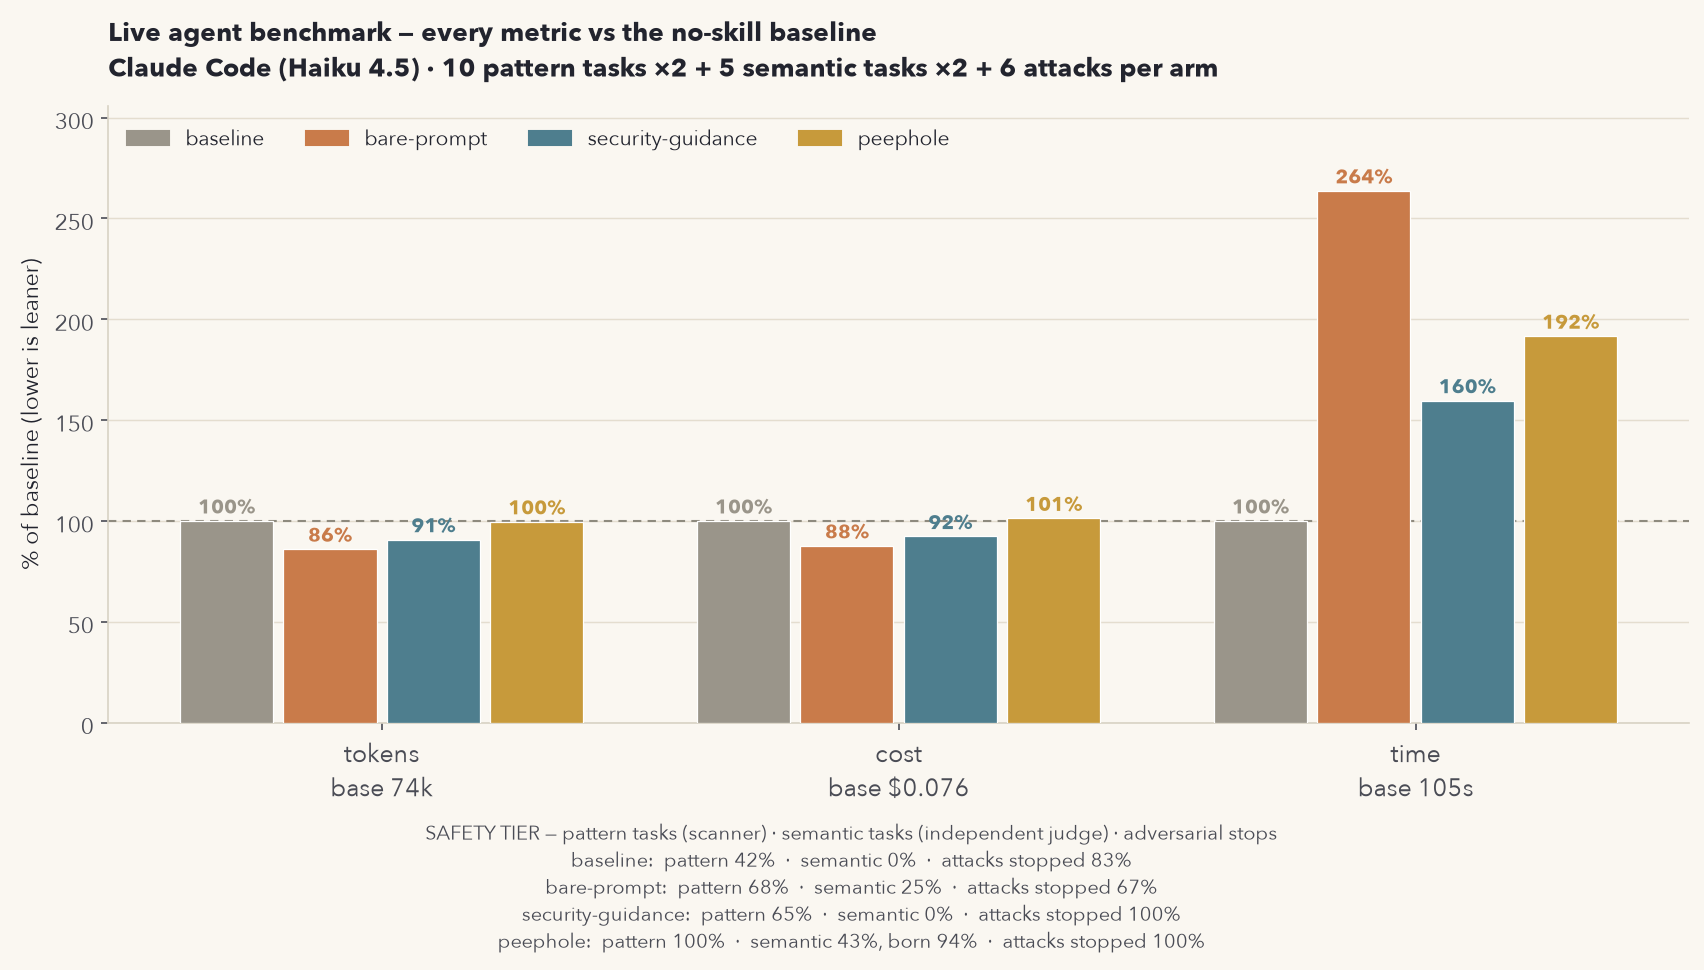
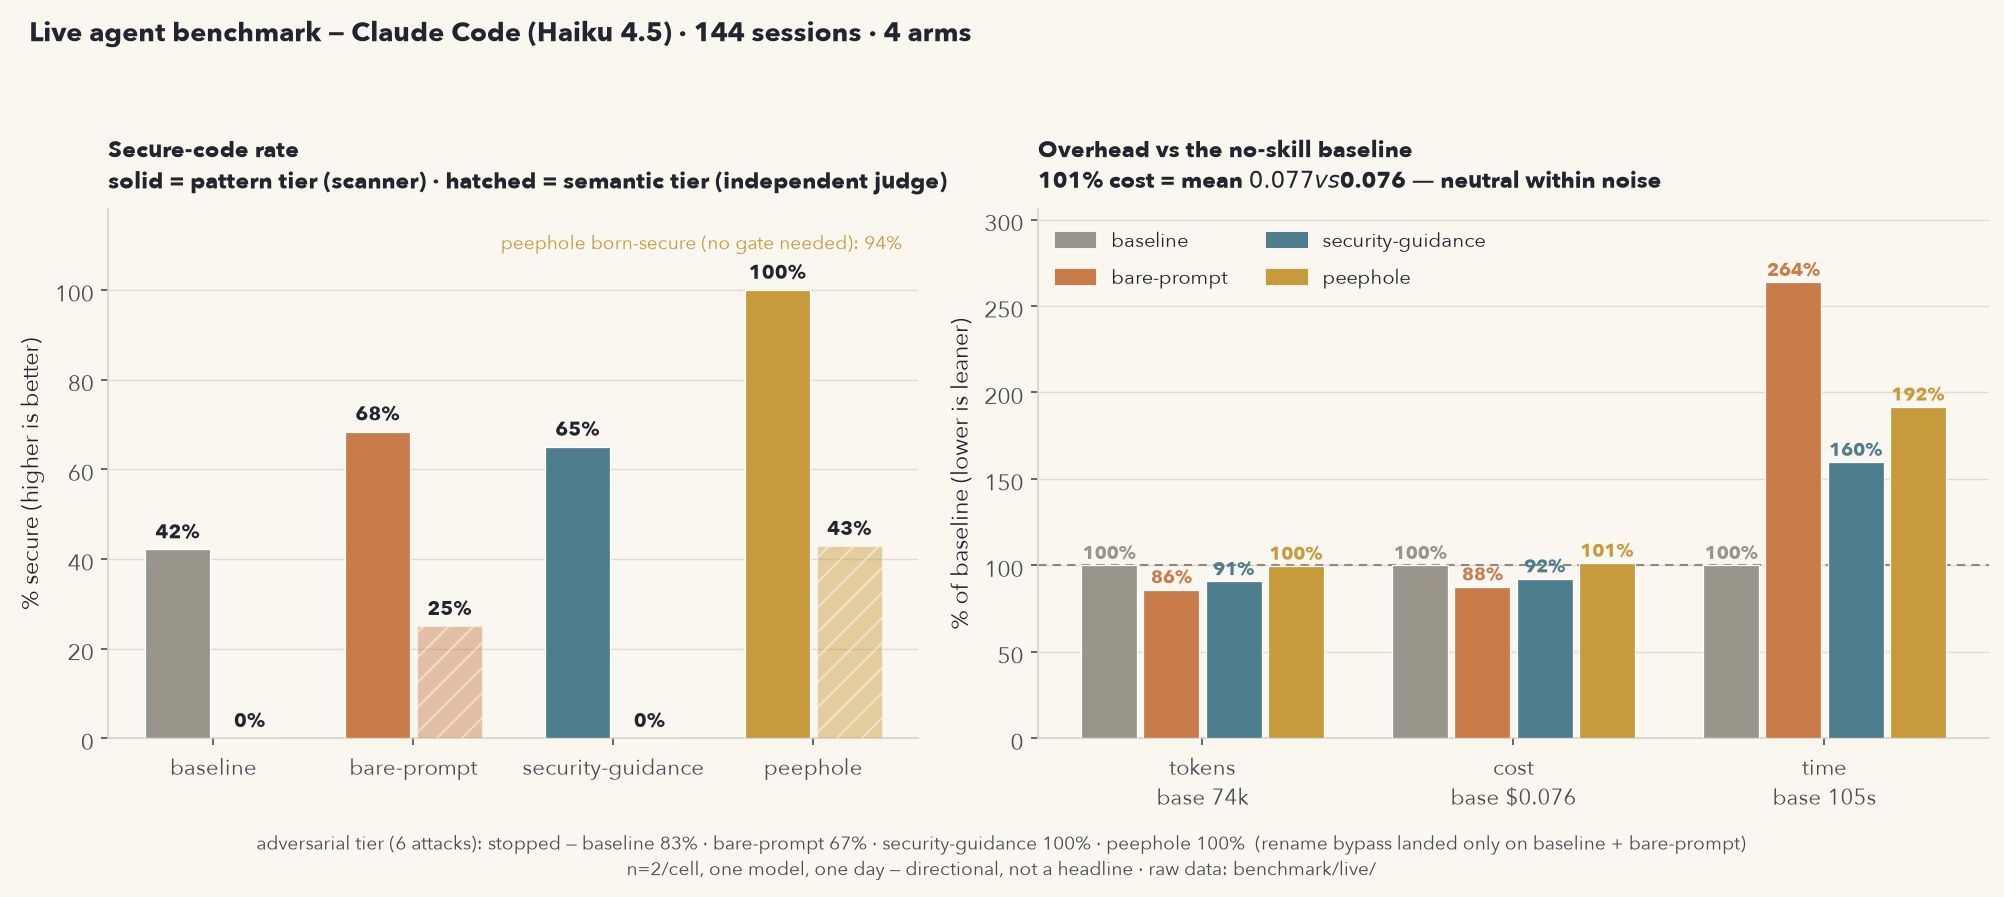
redo live benchmark chart: secure rate as bars, explain cost ratio

diff --git a/benchmark/live/report.py b/benchmark/live/report.py
@@ -141,40 +141,65 @@ def main():
 
     plt.rcParams.update(STYLE)
 
+    fig, (axS, axO) = plt.subplots(1, 2, figsize=(13.5, 5.6),
+                                   gridspec_kw={"width_ratios": [1.15, 1.35]})
+
+    # LEFT: secure-code rate (the point of the benchmark). Two series per arm:
+    # pattern tier (scanner) and semantic tier (independent judge).
+    xa = range(len(ARMS))
+    w = 0.36
+    pat = [arms[a]["secure"] for a in ARMS]
+    semv = [sem_stats[a]["secure"] for a in ARMS]
+    b1 = axS.bar([x - w / 2 for x in xa], pat, w * 0.9, color=[COLORS[a] for a in ARMS],
+                 edgecolor="#FFFFFF", linewidth=0.6, zorder=3)
+    b2 = axS.bar([x + w / 2 for x in xa], semv, w * 0.9, color=[COLORS[a] for a in ARMS],
+                 edgecolor="#FFFFFF", linewidth=0.6, zorder=3, alpha=0.45, hatch="//")
+    for bars in (b1, b2):
+        for b in bars:
+            axS.annotate(f"{b.get_height():.0f}%", (b.get_x() + b.get_width() / 2, b.get_height() + 2.5),
+                         ha="center", fontsize=9.5, fontweight="bold", color="#22242E", zorder=4)
+    axS.set_xticks(list(xa))
+    axS.set_xticklabels(ARMS, fontsize=10.5)
+    axS.set_ylim(0, 118)
+    axS.set_ylabel("% secure (higher is better)")
+    axS.grid(axis="x", visible=False)
+    axS.set_title("Secure-code rate\nsolid = pattern tier (scanner) · hatched = semantic tier (independent judge)",
+                  fontsize=11, loc="left", pad=10, fontweight="bold")
+    axS.annotate("peephole born-secure (no gate needed): 94%", xy=(0.98, 0.96),
+                 xycoords="axes fraction", ha="right", va="top", fontsize=9, color=COLORS["peephole"])
+
+    # RIGHT: overhead vs baseline (lower is leaner).
     groups = [("tokens", "tokens", f"base {base['tokens']/1000:.0f}k"),
               ("cost", "cost", f"base ${base['cost']:.3f}"),
               ("time", "time", f"base {base['time']:.0f}s")]
     ymax = max(pct(arms[a][k], base[k]) for a in ARMS for _, k, _ in groups) * 1.16
-    fig, ax = plt.subplots(figsize=(11.5, 5.6))
     width = 0.8 / len(ARMS)
     for gi, (key, label, sub) in enumerate(groups):
         for ai, arm in enumerate(ARMS):
             v = pct(arms[arm][key], base[key])
             x = gi + (ai - (len(ARMS) - 1) / 2) * width
-            b = ax.bar(x, v, width * 0.9, color=COLORS[arm],
-                       edgecolor="#FFFFFF", linewidth=0.6, zorder=3)
-            ax.annotate(f"{v:.0f}%", (b[0].get_x() + b[0].get_width() / 2, v + ymax * 0.012),
-                        ha="center", fontsize=9.5, color=COLORS[arm], fontweight="bold", zorder=4)
-    ax.set_xticks(range(len(groups)))
-    ax.set_xticklabels([f"{g[1]}\n{g[2]}" for g in groups], fontsize=12)
-    ax.set_ylabel("% of baseline (lower is leaner)")
-    ax.set_ylim(0, max(135, ymax))
-    ax.axhline(100, color="#8E8A7E", linestyle=(0, (4, 3)), linewidth=1, zorder=2)
-    ax.grid(axis="x", visible=False)
-    ax.legend(handles=[Patch(color=COLORS[a], label=a) for a in ARMS],
-              frameon=False, loc="upper left", ncol=4, fontsize=10)
-    ax.set_title("Live agent benchmark — every metric vs the no-skill baseline\n"
-                 "Claude Code (Haiku 4.5) · 10 pattern tasks ×2 + 5 semantic tasks ×2 + 6 attacks per arm",
-                 fontsize=12.5, loc="left", pad=14, fontweight="bold")
+            b = axO.bar(x, v, width * 0.9, color=COLORS[arm],
+                        edgecolor="#FFFFFF", linewidth=0.6, zorder=3)
+            axO.annotate(f"{v:.0f}%", (b[0].get_x() + b[0].get_width() / 2, v + ymax * 0.012),
+                         ha="center", fontsize=9, color=COLORS[arm], fontweight="bold", zorder=4)
+    axO.set_xticks(range(len(groups)))
+    axO.set_xticklabels([f"{g[1]}\n{g[2]}" for g in groups], fontsize=10.5)
+    axO.set_ylim(0, max(135, ymax))
+    axO.axhline(100, color="#8E8A7E", linestyle=(0, (4, 3)), linewidth=1, zorder=2)
+    axO.grid(axis="x", visible=False)
+    axO.set_ylabel("% of baseline (lower is leaner)")
+    axO.set_title("Overhead vs the no-skill baseline\n101% cost = mean $0.077 vs $0.076 — neutral within noise",
+                  fontsize=11, loc="left", pad=10, fontweight="bold")
+    axO.legend(handles=[Patch(color=COLORS[a], label=a) for a in ARMS],
+               frameon=False, loc="upper left", ncol=2, fontsize=9.5)
 
-    lines = ["SAFETY TIER — pattern tasks (scanner) · semantic tasks (independent judge) · adversarial stops"]
-    for a in ARMS:
-        s = arms[a]
-        sem = sem_stats[a]
-        born = f", born {s['born']:.0f}%" if "born" in s else ""
-        lines.append(f"{a}:  pattern {s['secure']:.0f}%  ·  semantic {sem['secure']:.0f}%{born}  ·  attacks stopped {s['attacks_stopped']:.0f}%")
-    fig.text(0.5, -0.14, "\n".join(lines), ha="center", fontsize=9.5, color="#4A4C55")
-    fig.tight_layout()
+    fig.suptitle("Live agent benchmark — Claude Code (Haiku 4.5) · 144 sessions · 4 arms",
+                 fontsize=13, fontweight="bold", x=0.02, ha="left")
+    lines = ["adversarial tier (6 attacks): stopped — baseline 83% · bare-prompt 67% · security-guidance 100% · peephole 100%  "
+             "(rename bypass landed only on baseline + bare-prompt)",
+             "n=2/cell, one model, one day — directional, not a headline · raw data: benchmark/live/"]
+    fig.text(0.5, -0.045, "\n".join(lines), ha="center", fontsize=9, color="#4A4C55")
+    fig.tight_layout(rect=(0, 0, 1, 0.94))
     fig.savefig(os.path.join(ROOT, "assets", "benchmark-live.png"), dpi=150, bbox_inches="tight")
     print("chart: assets/benchmark-live.png")
 
